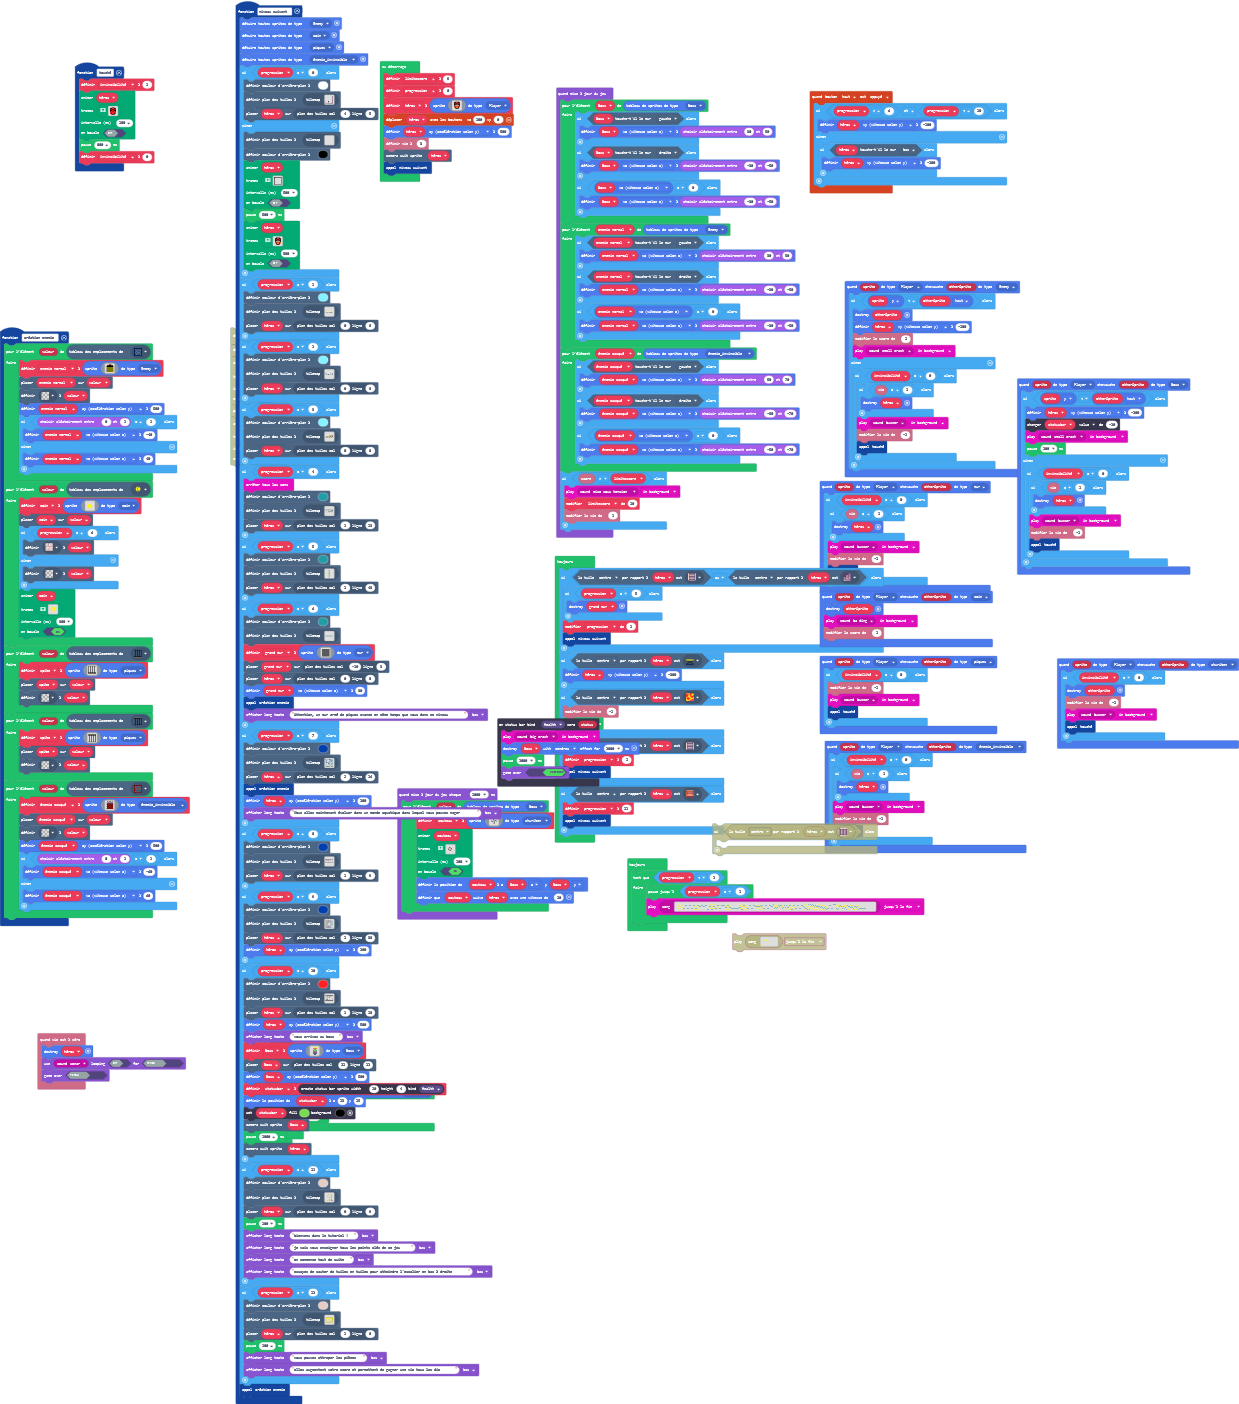
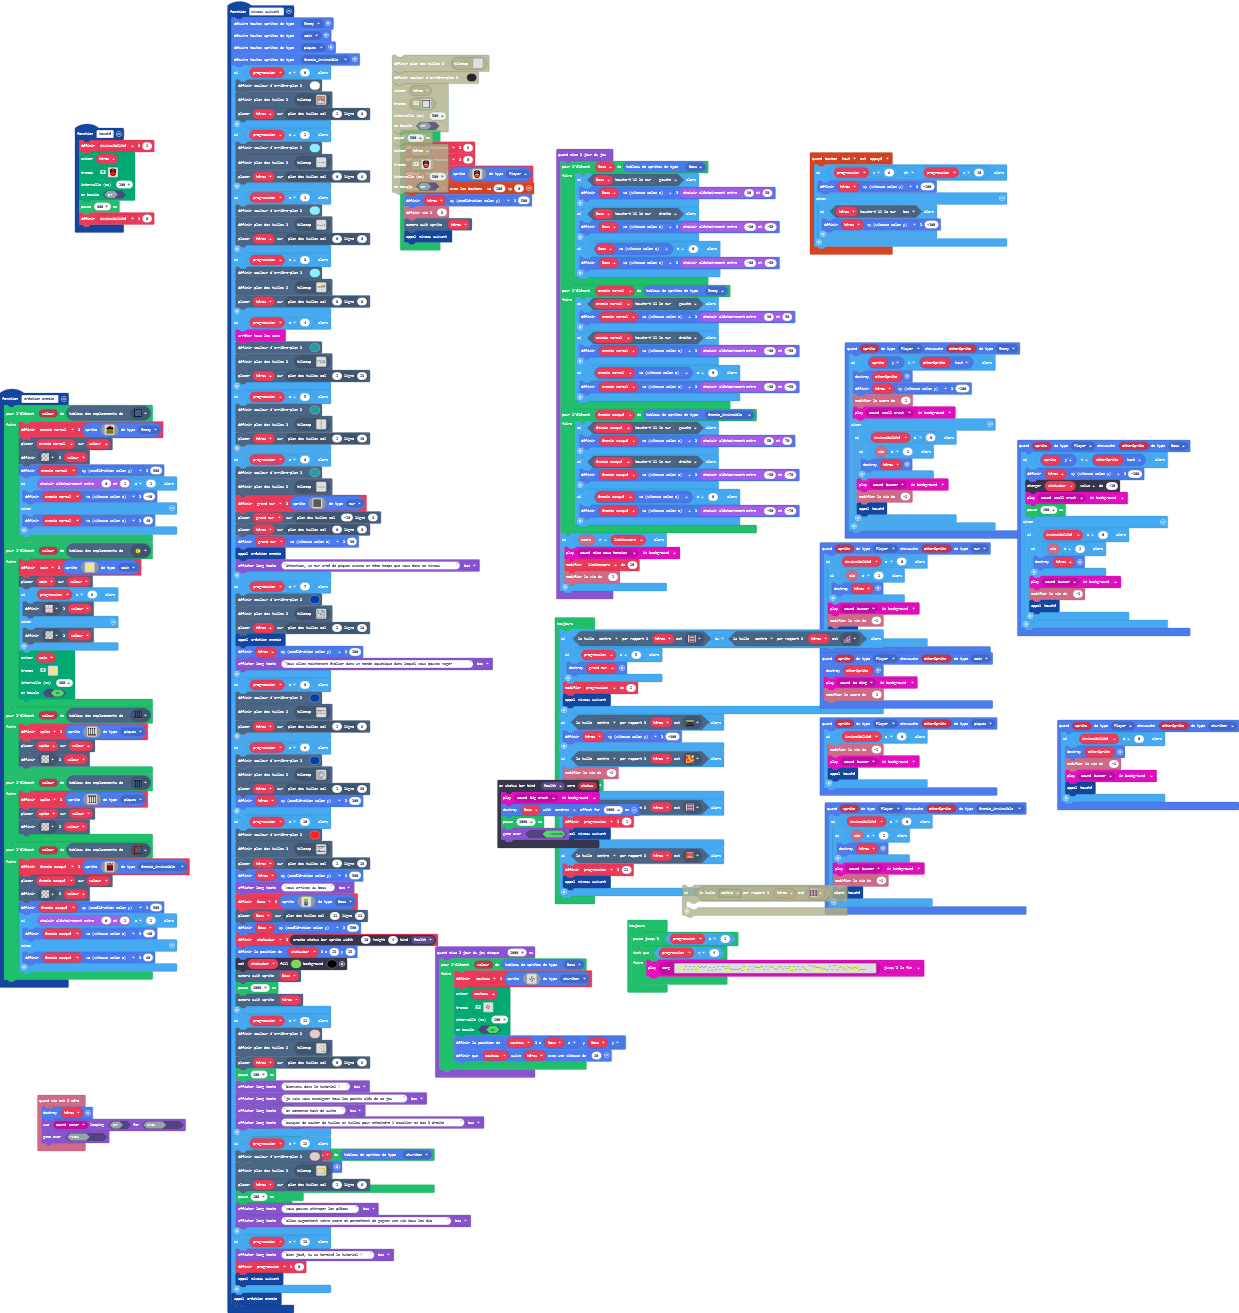
Mise à jour main.blocks, main.ts, tilemap.g.jres, tilemap.g.ts

diff --git a/main.ts b/main.ts
@@ -381,57 +381,7 @@ function niveau_suivant () {
     if (progression == 0) {
         scene.setBackgroundColor(1)
         tiles.setCurrentTilemap(tilemap`monde0`)
-        tiles.placeOnTile(héros, tiles.getTileLocation(4, 5))
-    } else {
-        tiles.setCurrentTilemap(tilemap`niveau27`)
-        scene.setBackgroundColor(15)
-        animation.runImageAnimation(
-        héros,
-        [img`
-            f f f f f f f f f f f f f f f f 
-            f . . . . . . . . . . . . . . f 
-            f . . . . . . . . . . . . . . f 
-            f . . . . . . . . . . . . . . f 
-            f . . . . . . . . . . . . . . f 
-            f . . . . . . . . . . . . . . f 
-            f . . . . . . . . . . . . . . f 
-            f . . . . . . . . . . . . . . f 
-            f . . . . . . . . . . . . . . f 
-            f . . . . . . . . . . . . . . f 
-            f . . . . . . . . . . . . . . f 
-            f . . . . . . . . . . . . . . f 
-            f . . . . . . . . . . . . . . f 
-            f . . . . . . . . . . . . . . f 
-            f . . . . . . . . . . . . . . f 
-            f f f f f f f f f f f f f f f f 
-            `],
-        500,
-        false
-        )
-        pause(500)
-        animation.runImageAnimation(
-        héros,
-        [img`
-            . . . . . . . . . . . . . . . . 
-            . . . . f f f f f f f f . . . . 
-            . . . f f f 2 2 2 2 f f f . . . 
-            . . f f f e e e e e e f f f . . 
-            . . f f e 2 2 2 2 2 2 e e f . . 
-            . . f e 2 f f f f f f 2 e f . . 
-            . . f f f f e e e e f f f f . . 
-            . . f e f b f 4 4 f b f e f . . 
-            . . f e 4 1 f d d f 1 4 e f . . 
-            . . f e e d d d d d d e e f . . 
-            . . . f e e 4 4 4 4 e e f . . . 
-            . . e 4 f 2 2 2 2 2 2 f 4 e . . 
-            . . 4 d f 2 2 2 2 2 2 f d 4 . . 
-            . . 4 4 f 4 4 5 5 4 4 f 4 4 . . 
-            . . . . . f f f f f f . . . . . 
-            . . . . . f f . . f f . . . . . 
-            `],
-        500,
-        false
-        )
+        tiles.placeOnTile(héros, tiles.getTileLocation(1, 8))
     }
     if (progression == 1) {
         scene.setBackgroundColor(9)
@@ -872,6 +822,11 @@ function niveau_suivant () {
         game.showLongText("vous pouvez attraper les pièces", DialogLayout.Bottom)
         game.showLongText("elles augmentent votre score et permettent de gagner une vie tous les dix", DialogLayout.Bottom)
     }
+    if (progression == 13) {
+        game.showLongText("bien joué, tu as terminé le tutoriel !", DialogLayout.Bottom)
+        progression = 0
+        niveau_suivant()
+    }
     création_enemie()
 }
 sprites.onOverlap(SpriteKind.Player, SpriteKind.Enemy, function (sprite, otherSprite) {
@@ -1081,8 +1036,8 @@ forever(function () {
     }
 })
 forever(function () {
-    while (progression < 2) {
-        pauseUntil(() => progression == 1)
+    pauseUntil(() => progression == 1)
+    while (progression < 4) {
[1 lines of base64/hex data omitted]
     }
 })

diff --git a/tilemap.g.ts b/tilemap.g.ts
@@ -32,6 +32,14 @@ namespace myTiles {
     export const tile13 = image.ofBuffer(hex``);
     //% fixedInstance jres blockIdentity=images._tile
     export const tile15 = image.ofBuffer(hex``);
+    //% fixedInstance jres blockIdentity=images._tile
+    export const tile16 = image.ofBuffer(hex``);
+    //% fixedInstance jres blockIdentity=images._tile
+    export const tile17 = image.ofBuffer(hex``);
+    //% fixedInstance jres blockIdentity=images._tile
+    export const tile18 = image.ofBuffer(hex``);
+    //% fixedInstance jres blockIdentity=images._tile
+    export const tile19 = image.ofBuffer(hex``);
 
     helpers._registerFactory("tilemap", function(name: string) {
         switch(helpers.stringTrim(name)) {
@@ -754,19 +762,6 @@ namespace myTiles {
 . . . . . . . . . . . . . . . . 
 . . . . . . . . . . . . . . . . 
 `, [myTiles.transparency16], TileScale.Sixteen);
-            case "monde0":
[1 lines of base64/hex data omitted]
-. . . . . . . . . 2 
-. . . . . . . . . 2 
-. . . . . . . . . 2 
-. . . . . . . . . 2 
-. . . . . . . . . 2 
-. . . . . . . . . 2 
-. . . . 2 . . . . 2 
-. . . . . . . . . 2 
-. . . . . . . . . 2 
-2 2 2 2 2 2 2 2 2 2 
-`, [myTiles.transparency16,sprites.dungeon.stairLadder,sprites.dungeon.stairSouth,sprites.dungeon.stairEast,sprites.castle.rock0,myTiles.tile14], TileScale.Sixteen);
             case "niveau41":
             case "niveau41":return tiles.createTilemap(hex`1000100000000000000000000000000000000000000000000000000000000000000000000000000000000000000000000000000000000000000000000000000000000000000000000000000000000000000000000000000000000000000000000000000000000000000000000000000000000000000000000000000000000000000000000000000000000000000000000000000000000000000000000000000000000000000000000000000000000000000000000000000000000000000000000000000000000000000000000000000000000000000000000000000000000000000000000000000000000000000000000000000000000000000000000000000000000000`, img`
 . . . . . . . . . . . . . . . . 
@@ -837,8 +832,21 @@ namespace myTiles {
 . . . . . . . . . . . . . . . . 
 . . . . . . . . . . . . . . . . 
 `, [myTiles.transparency16], TileScale.Sixteen);
+            case "monde0":
[1 lines of base64/hex data omitted]
+2 2 2 2 2 2 2 2 2 2 
+2 2 2 2 2 2 2 2 2 2 
+2 2 2 2 2 2 2 2 2 2 
+2 2 2 2 2 2 2 2 2 2 
+2 2 2 2 2 2 2 2 2 2 
+2 2 2 2 2 2 2 2 2 2 
+2 . . . . . . . . 2 
+2 . . . . . . . . 2 
+2 . . 2 . 2 . 2 . 2 
+2 2 2 2 . 2 . 2 . 2 
+`, [myTiles.transparency16,sprites.dungeon.stairLadder,sprites.dungeon.stairSouth,sprites.dungeon.stairEast,myTiles.tile16,myTiles.tile17,myTiles.tile18,myTiles.tile19], TileScale.Sixteen);
             case "tuto2":
[2 lines of base64/hex data omitted]
 2 2 2 2 2 2 2 2 2 2 2 2 2 2 2 2 
 2 . . . . . . . . . . . . . . 2 
 2 . . . . . . . 2 . . . . 2 . 2 
@@ -849,7 +857,26 @@ namespace myTiles {
 2 . . 2 . . . . 2 . . 2 . . . 2 
 2 . . . . . . . . . . . . 2 . 2 
 2 2 2 2 2 2 2 2 2 2 2 2 2 2 2 2 
-`, [myTiles.transparency16,myTiles.tile6,myTiles.tile15], TileScale.Sixteen);
+`, [myTiles.transparency16,myTiles.tile6,myTiles.tile15,sprites.dungeon.stairNorth], TileScale.Sixteen);
+            case "niveau43":
+            case "niveau43":return tiles.createTilemap(hex`1000100000000000000000000000000000000000000000000000000000000000000000000000000000000000000000000000000000000000000000000000000000000000000000000000000000000000000000000000000000000000000000000000000000000000000000000000000000000000000000000000000000000000000000000000000000000000000000000000000000000000000000000000000000000000000000000000000000000000000000000000000000000000000000000000000000000000000000000000000000000000000000000000000000000000000000000000000000000000000000000000000000000000000000000000000000000000`, img`
+. . . . . . . . . . . . . . . . 
+. . . . . . . . . . . . . . . . 
+. . . . . . . . . . . . . . . . 
+. . . . . . . . . . . . . . . . 
+. . . . . . . . . . . . . . . . 
+. . . . . . . . . . . . . . . . 
+. . . . . . . . . . . . . . . . 
+. . . . . . . . . . . . . . . . 
+. . . . . . . . . . . . . . . . 
+. . . . . . . . . . . . . . . . 
+. . . . . . . . . . . . . . . . 
+. . . . . . . . . . . . . . . . 
+. . . . . . . . . . . . . . . . 
+. . . . . . . . . . . . . . . . 
+. . . . . . . . . . . . . . . . 
+. . . . . . . . . . . . . . . . 
+`, [myTiles.transparency16], TileScale.Sixteen);
         }
         return null;
     })
@@ -887,6 +914,14 @@ namespace myTiles {
             case "tile13":return tile13;
             case "myTile12":
             case "tile15":return tile15;
+            case "myTile13":
+            case "tile16":return tile16;
+            case "myTile14":
+            case "tile17":return tile17;
+            case "myTile15":
+            case "tile18":return tile18;
+            case "myTile16":
+            case "tile19":return tile19;
         }
         return null;
     })
